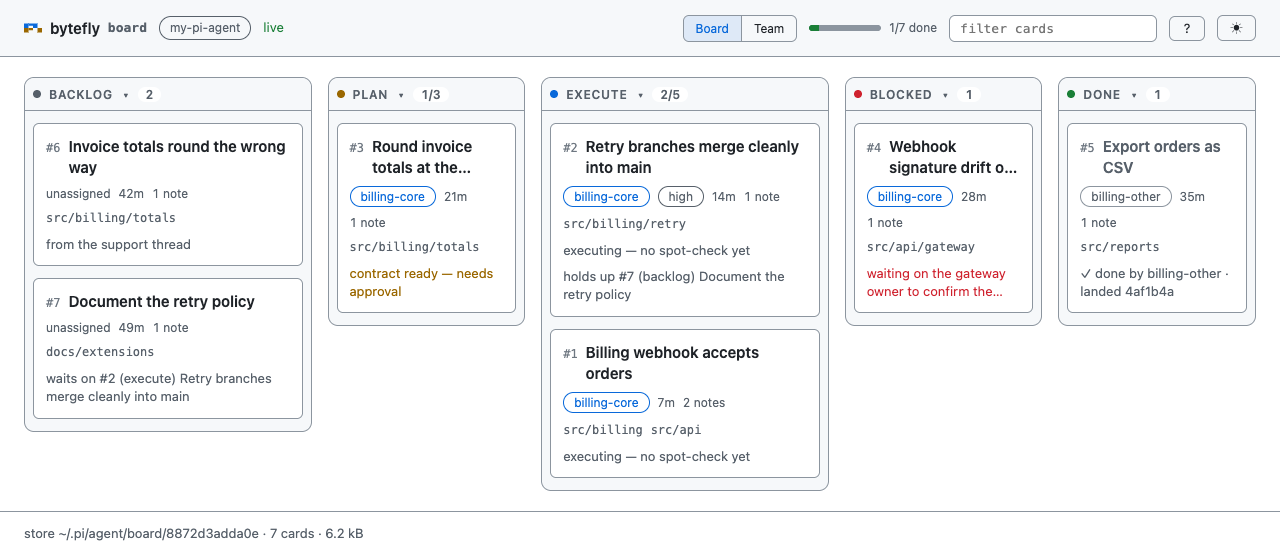
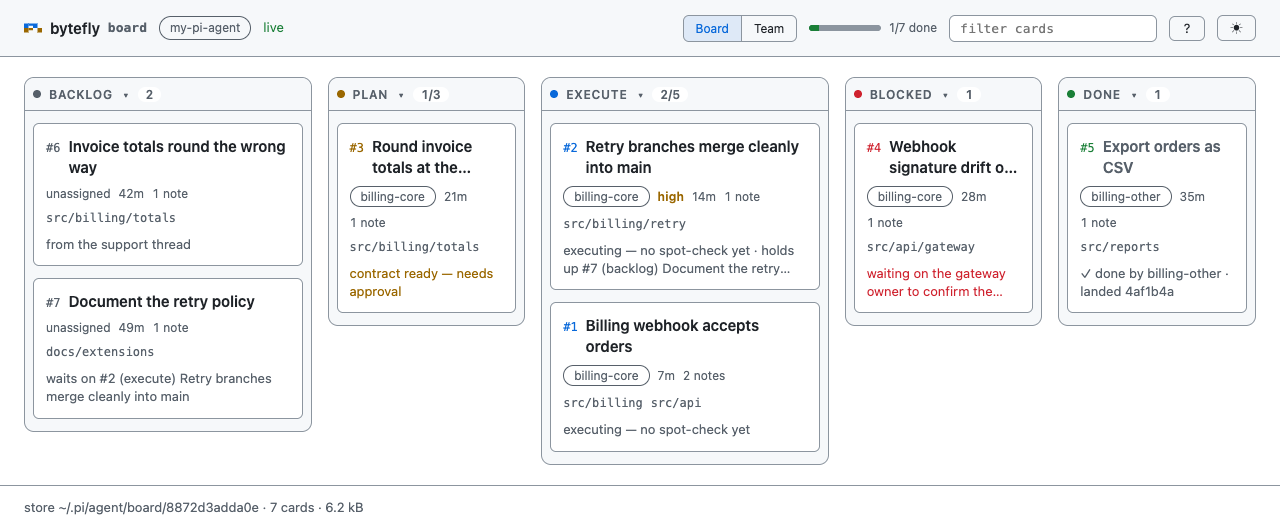
feat(board): a card's links are one row, and its id wears its lane
The face spent a second clamped paragraph on what a card holds up, said
the same edge twice, and lifted a pixel on hover for a page that cannot
move anything.

- the dependents ride the reason line after a middot; cardHolds is gone
- the owner is a neutral pill and a priority is a word, so accent means
  the lane or the current card and never a person's name
- the id is drawn in its lane's role, generated from LANE_RULES beside
  the dot rule, so the card states its state on itself
- no hover translate, and the done-lane accent-chip rule it left dead
- a clamped title carries its whole text on a hover, measured in
  markCards and skipped for anything off screen

Changed region(s): [[0.0, 0.0, 1.0, 0.966], [0.0312, 0.5132, 0.25, 0.8151]]

diff --git a/extensions/board/view/card.ts b/extensions/board/view/card.ts
@@ -7,8 +7,9 @@
  * wording, and the reason rule spliced in from `lib/board/reason.ts` — so no rule about a
  * card is stated twice.
  *
- * Two of the face's facts are longer than it can draw: the hints past its third path, the
- * reason sentence, and the cards it is holding up. Each is on a hover title for the
+ * Three of the face's facts are longer than it can draw: the title in its two-line clamp,
+ * the hints past its third path, and the reason sentence — which carries what the card
+ * holds up after a middot, so one edge is one row. Each is on a hover title for the
  * pointer, and each is named by the title button's `aria-describedby` for the keyboard,
  * because `j`/`k` walks cards by focusing that button and never hovers anything.
  *
@@ -43,6 +44,15 @@ export const BOARD_CARD_JS = String.raw`(function () {
     danger: N.cardReasonDanger,
     success: N.cardReasonSuccess,
   };
+
+  /**
+   * The class each priority wears.
+   *
+   * Both levels are named here rather than one class with a modifier decided at the call
+   * site, because this table is what the class contract compares with the stylesheet: a
+   * level with no rule, or a rule with no level, fails there instead of in a screenshot.
+   */
+  var PRIORITY_CLASS = { high: N.cardPriorityHigh, low: N.cardPriorityLow };
 
   /** "3h", "just now" — the age a stamp is drawn with, read against the reader's clock. */
   function sentence(wording, age) {
@@ -142,10 +152,15 @@ export const BOARD_CARD_JS = String.raw`(function () {
     var described = [];
 
     var meta = el("p", N.cardMeta);
-    meta.appendChild(card.owner ? chip(card.owner.label, "accent") : el("span", "", "unassigned"));
-    // The order inside a lane is the priority, so an urgent card says so: an order
-    // nobody can see reads as an accident. The lane's colour stays the card's own.
-    if (card.priority !== "normal") meta.appendChild(chip(card.priority, "outline"));
+    // Who holds it is a name, not an action: the pill is neutral, so the accent colour on a card
+    // means the lane it is in or the card the reader is on, and never a person.
+    meta.appendChild(card.owner ? chip(card.owner.label, "outline") : el("span", "", "unassigned"));
+    // The order inside a lane is the priority, so an urgent card says so: an order nobody
+    // can see reads as an accident. A word beside the name rather than a second pill, so an
+    // owner and an urgency are two shapes.
+    if (card.priority !== "normal") {
+      meta.appendChild(el("span", N.cardPriority + " " + PRIORITY_CLASS[card.priority], card.priority));
+    }
     // The stamp, so the clock can keep the age honest between frames: a board can be
     // quiet for ten minutes while the page still says "live".
     meta.appendChild(stamp(card.updatedAt, "updated {age}"));
@@ -171,26 +186,22 @@ export const BOARD_CARD_JS = String.raw`(function () {
       if (card.paths.length > PATH_CHIPS) described.push("card-paths-" + card.id);
     }
 
+    // One row for the card's links: why it is not moving, and what leaving it undone holds
+    // up. The other side of a link used to be a second clamped paragraph, so a card three
+    // others waited on spent two rows saying one fact from each end.
     var reason = reasonOf(card);
-    if (reason) {
+    var holds = card.dependents === undefined ? undefined : "holds up " + card.dependents;
+    var why = reason === undefined ? holds : holds === undefined ? reason.text : reason.text + " \u00b7 " + holds;
+    if (why !== undefined) {
       // The tone is a lookup, not a suffix: a name assembled from a prefix is a name no
-      // test can compare with the stylesheet.
-      var line = el("p", N.cardReason + " " + TONE_CLASS[reasonTone(reason.kind)], reason.text);
+      // test can compare with the stylesheet. A card that only holds others up is drawn in
+      // the tone a waiting card wears, because it is the same edge read the other way.
+      var line = el("p", N.cardReason + " " + TONE_CLASS[reasonTone(reason === undefined ? "waiting" : reason.kind)], why);
       line.id = "card-reason-" + card.id;
       // It clamps on the card, so the full sentence is the tooltip.
-      line.title = reason.text;
+      line.title = why;
       item.appendChild(line);
       described.push(line.id);
-    }
-
-    // The other side of a link, on the face: what leaving this card undone holds up. It was
-    // dialog-only, so a card three others were waiting on looked like any other card.
-    if (card.dependents !== undefined) {
-      var holds = el("p", N.cardHolds, "holds up " + card.dependents);
-      holds.id = "card-holds-" + card.id;
-      holds.title = "holds up " + card.dependents;
-      item.appendChild(holds);
-      described.push(holds.id);
     }
 
     // The reason and the hints are drawn below the title, and a keyboard reader never
@@ -211,7 +222,24 @@ export const BOARD_CARD_JS = String.raw`(function () {
   }
 
   /**
-   * Paint the card the reader is on and the cards they have already read.
+   * Give a clamped title the hover the rest of the face has.
+   *
+   * The title is the one field with nowhere else to be read: the reason, the hints and the
+   * plus-N chip each carry their whole sentence on a hover and describe the title button with
+   * it, and a two-line clamp with no title left a long name readable only by opening the
+   * card. A card in a folded lane or on the other tab measures as nothing, so it keeps
+   * what it had and the next pass tries again once a reader can see it.
+   */
+  function fitTitle(card) {
+    var node = card.querySelector(".board-card__title");
+    if (!node || !node.getClientRects || node.getClientRects().length === 0) return;
+    if (node.scrollHeight > node.clientHeight + 1) node.title = node.textContent;
+    else node.removeAttribute("title");
+  }
+
+  /**
+   * Paint the card the reader is on, the cards they have already read, and the hover a
+   * clamped title needs.
    *
    * j/k walks the drawn cards and wraps, so walking a lane and coming back looked
    * exactly like arriving for the first time. The two ids are the client's own — never
@@ -224,6 +252,7 @@ export const BOARD_CARD_JS = String.raw`(function () {
       var id = nodes[i].getAttribute("data-card");
       marked(nodes[i], "data-current", board.current !== undefined && String(board.current) === id);
       marked(nodes[i], "data-visited", board.visited !== undefined && board.visited[id] === true);
+      fitTitle(nodes[i]);
     }
   };
 })();`;

diff --git a/extensions/board/view/styles.ts b/extensions/board/view/styles.ts
@@ -28,6 +28,7 @@ const LANE_ROLE_CSS = LANES.flatMap((lane) => {
 	return [
 		`.board-lane[data-lane="${lane}"] .board-lane__dot{background:var(--${role})}`,
 		`.board-dialog__state[data-lane="${lane}"]::before{background:var(--${role})}`,
+		`.board-card[data-lane="${lane}"] .board-card__id{color:var(--${role})}`,
 	];
 }).join("\n");
 
@@ -124,10 +125,12 @@ ${DECISION_WHY_CSS}
 .board-lane__list{display:flex;flex-direction:column;gap:var(--space-3);margin:0;padding:0;list-style:none}
 .board-lane__empty{margin:0;font:var(--fs-sm) var(--font-ui);color:var(--muted)}
 
-/* A card: the title, then the facts a reader needs to act on it. Its lane says
-   which state it is in, so the card itself carries no second colour bar. */
-.board-card{display:flex;flex-direction:column;gap:var(--space-2);padding:var(--space-3);border:1px solid var(--border);border-radius:var(--radius-md);background:var(--canvas);cursor:pointer;transition:border-color var(--motion-fast) var(--motion-ease),transform var(--motion-fast) var(--motion-ease)}
-.board-card:hover{border-color:var(--border-strong);transform:translateY(-1px)}
+/* A card: the title, then the facts a reader needs to act on it. Its lane says which
+   state it is in, and the id wears that lane's colour, so the card needs no second bar.
+   The hover lifts nothing: the page cannot move a card, and a card that rises on the
+   pointer reads as one you can pick up. */
+.board-card{display:flex;flex-direction:column;gap:var(--space-2);padding:var(--space-3);border:1px solid var(--border);border-radius:var(--radius-md);background:var(--canvas);cursor:pointer;transition:border-color var(--motion-fast) var(--motion-ease)}
+.board-card:hover{border-color:var(--border-strong)}
 .board-card[hidden]{display:none}
 .board-card__head{display:flex;align-items:baseline;gap:var(--space-2);margin:0;min-width:0}
 .board-card__id{font:var(--fs-xs) var(--font-mono);color:var(--dim)}
@@ -136,11 +139,15 @@ ${DECISION_WHY_CSS}
 /* Finished work recedes: it is history, and the live lanes should not compete with it. */
 .board-card[data-lane="done"] .board-card__title{color:var(--muted)}
 .board-card[data-lane="done"] .board-card__title:hover{color:var(--accent)}
-.board-card[data-lane="done"] .bf-chip--accent{color:var(--muted);border-color:var(--border)}
 .board-card__meta{display:flex;flex-wrap:wrap;align-items:center;gap:var(--space-2);margin:0;font:var(--fs-xs) var(--font-ui);color:var(--muted)}
 /* How much history the card carries and how recent it is: a count and a stamp, in the
    meta line's own voice, so a card with ten notes cannot look like one with none. */
 .board-card__notes{display:inline-flex;align-items:baseline;gap:var(--space-1);font-variant-numeric:tabular-nums}
+/* An order is a word beside the name rather than a second pill, so who holds a card and
+   how urgent it is are two shapes a reader tells apart at a glance. */
+.board-card__priority{font:var(--fw-semibold) var(--fs-xs) var(--font-ui);letter-spacing:.02em}
+.board-card__priority--high{color:var(--warn)}
+.board-card__priority--low{color:var(--dim)}
 .board-card__paths{display:flex;flex-wrap:wrap;gap:var(--space-1) var(--space-2);margin:0;padding:0;list-style:none}
 /* A chip is one line and nowrap by design, so an owner label or a path longer than the card
    would spill past its border and across the lane beside it: clipped to the card instead,
@@ -150,6 +157,9 @@ ${DECISION_WHY_CSS}
 .board-card .bf-chip{display:block;max-width:100%;overflow:hidden;text-overflow:ellipsis}
 /* A path is something a reader types, so it wears the mono face the dialog's ladder uses. */
 .board-card__paths .bf-chip{font-family:var(--font-mono)}
+/* The other half of a link — what leaving this card undone holds up — is drawn in this
+   same paragraph after a middot: it is the same edge read from the other end, so it takes
+   the reason's tone and no second row of its own. */
 .board-card__reason{margin:0;font:var(--fs-sm)/var(--lh-snug) var(--font-ui);color:var(--muted);display:-webkit-box;-webkit-line-clamp:2;-webkit-box-orient:vertical;overflow:hidden;overflow-wrap:anywhere}
 /* The tone rules come *after* the base rule, and that is load-bearing: a tone class is one
    class and so is the base, so the later of two equal selectors wins. Generated before it,
@@ -157,10 +167,6 @@ ${DECISION_WHY_CSS}
    exists to stop. The pages suite pins the order, not just the rule's presence. */
 ${REASON_TONE_CSS}
 
-/* The other side of a link: what leaving this card undone holds up. It is a cost and not a
-   verdict, so it stays in the card's own voice: warn already means "a reader has to decide",
-   and a card can hold others up while nothing about it needs deciding. */
-.board-card__holds{margin:0;font:var(--fs-sm)/var(--lh-snug) var(--font-ui);color:var(--muted);display:-webkit-box;-webkit-line-clamp:2;-webkit-box-orient:vertical;overflow:hidden;overflow-wrap:anywhere}
 /* Where the reader has been: j/k walks the drawn cards and wraps, so a lane walked and
    come back to looked exactly like a lane arriving for the first time. A read card keeps
    a quiet edge and the one the reader is on wears the accent one — after the hover rule,
@@ -314,7 +320,7 @@ ${REASON_TONE_CSS}
 }
 @media (prefers-reduced-motion: reduce){
   .board-card,.board-team__decision{transition:none}
-  .board-card:hover,.board-team__decision:hover{transform:none}
+  .board-team__decision:hover{transform:none}
 }
 @media print{
   .board-lanes,.board-team__grid{grid-template-columns:minmax(0,1fr)}

diff --git a/extensions/board/view/pages.test.ts b/extensions/board/view/pages.test.ts
@@ -237,10 +237,10 @@ describe("the document", () => {
 		expect(BOARD_CSS).toContain(".board-picker{flex-wrap:wrap;border:0;background:none;gap:var(--space-1)}");
 	});
 
-	test("wears its priority as a filed chip and its paths as code", () => {
-		// A priority is a field a card carries, so it wears the kit's quiet pill rather than the
-		// same muted text as its age; a path hint is something a reader types, so it is mono.
-		expect(BOARD_CLIENT_JS).toContain('chip(card.priority, "outline")');
+	test("wears its priority as a word and its paths as code", () => {
+		expect(BOARD_CLIENT_JS).toContain("PRIORITY_CLASS[card.priority]");
+		expect(BOARD_CSS).toContain(".board-card__priority--high{color:var(--warn)}");
+		// A path hint is something a reader types, so it is mono.
 		expect(BOARD_CSS).toContain(".board-card__paths .bf-chip{font-family:var(--font-mono)}");
 		// Two mono paths four pixels apart read as one path that wrapped, so the list keeps the
 		// dialog's taller column gap: the separation is the only thing saying where one ends.
@@ -260,6 +260,8 @@ describe("the document", () => {
 		expect(BOARD_CLIENT_JS).toContain("hint.title = shown[i]");
 		// A title with no spaces in it wraps to the two-line clamp instead of being cut mid-word.
 		expect(ownRules()).toMatch(/\.board-card__title\{[^}]*overflow-wrap:anywhere/);
+		expect(BOARD_CLIENT_JS).toContain("node.scrollHeight > node.clientHeight + 1");
+		expect(BOARD_CLIENT_JS).toContain('node.removeAttribute("title")');
 	});
 
 	test("draws every colour through a kit token", () => {
@@ -329,7 +331,7 @@ describe("the client bundle", () => {
 		expect(BOARD_CLIENT_JS).toContain("board.matches(card, query)");
 		expect(BOARD_CLIENT_JS).toContain("matchesLabel(mate.label)");
 		expect(BOARD_CLIENT_JS).toContain("laneWithWork(view)");
-		expect(BOARD_CLIENT_JS).toContain("line.title = reason.text");
+		expect(BOARD_CLIENT_JS).toContain("line.title = why");
 		expect(BOARD_CLIENT_JS).toContain("why.title = entry.why");
 	});
 
@@ -367,10 +369,8 @@ describe("the client bundle", () => {
 		expect(BOARD_CSS).toContain(
 			'.board-card[data-current="true"]{border-color:var(--accent);box-shadow:inset 3px 0 0 var(--accent)}',
 		);
-		// The line under the reason clamps like the reason, which is why it is described too,
-		// and it keeps the card's own voice: warn means a reader has to decide something.
-		expect(ownRules()).toMatch(/\.board-card__holds\{[^}]*-webkit-line-clamp:2/);
-		expect(ownRules()).toMatch(/\.board-card__holds\{[^}]*color:var\(--muted\)/);
+		// The other half of a link rides the reason line after a middot, in the reason's tone.
+		expect(BOARD_CLIENT_JS).toContain('reason.text + " \\u00b7 " + holds');
 	});
 
 	test("draws the dashboard: a queue, a roster, and a Done strip that opens cards", () => {

diff --git a/extensions/board/view/behaviour.test.ts b/extensions/board/view/behaviour.test.ts
@@ -440,10 +440,9 @@ describe.skipIf(CHROME === undefined)("the served page", () => {
 		);
 		try {
 			const page = await openPage();
-			// The face says it too, and names the card rather than its id: a lead reading a lane
-			// decides on that, and the dialog was the only place it lived.
-			expect(await page.textContent('#lane-backlog .board-card[data-card="1"] .board-card__holds')).toBe(
-				"holds up #2 (backlog) Invoice totals round the wrong way",
+			// The face says it too, on the reason's own line, naming the card rather than its id.
+			expect(await page.textContent('#lane-backlog .board-card[data-card="1"] .board-card__reason')).toContain(
+				"· holds up #2 (backlog) Invoice totals round the wrong way",
 			);
 			expect(await page.textContent('#lane-backlog .board-card[data-card="2"] .board-card__reason')).toBe(
 				"waits on #1 (backlog) Export orders as CSV",
@@ -638,10 +637,11 @@ describe.skipIf(CHROME === undefined)("the served page", () => {
 
 	test("wears its priority and its paths as fields, not as prose", async () => {
 		const page = await openPage();
-		// The executing card is the seeded one with a priority, so its meta line is the case.
-		expect(
-			await page.$eval("#lane-execute .board-card .board-card__meta .bf-chip--outline", (n) => n.textContent),
-		).toBe("high");
+		// The executing card is the seeded one with a priority, so its meta line is the case:
+		// who holds it is a neutral pill, and how urgent it is is a word beside that pill.
+		const meta = "#lane-execute .board-card .board-card__meta";
+		expect(await page.$eval(`${meta} .bf-chip--outline`, (n) => n.textContent)).toBe("billing-core");
+		expect(await page.$eval(`${meta} .board-card__priority`, (n) => n.textContent)).toBe("high");
 		// A path is a value a reader types, so it wears the dialog's mono face on the card too.
 		const mono = await page.$eval("#lane-execute .board-card .board-card__paths .bf-chip", (n) =>
 			(globalThis as unknown as { getComputedStyle(node: ElementLike): { fontFamily: string } })

diff --git a/extensions/board/view/repaint.test.ts b/extensions/board/view/repaint.test.ts
@@ -64,8 +64,9 @@ describe.skipIf(CHROME === undefined)("a frame", () => {
 
 	test("repaints a card that gains a card waiting on it", async () => {
 		const page = await board.open();
-		const holds = () => page.textContent('#lane-execute .board-card[data-card="2"] .board-card__holds');
-		await expect(holds()).resolves.toBe("holds up #1 (backlog) Export orders as CSV");
+		// The other half of a link is the reason line's, after a middot: one row for one edge.
+		const holds = () => page.textContent('#lane-execute .board-card[data-card="2"] .board-card__reason');
+		await expect(holds()).resolves.toContain("holds up #1 (backlog) Export orders as CSV");
 		// A third card is linked to the executing one. That is a write to a card in another
 		// lane, and the blocker's own record keeps the revision it had.
 		await board.store.mutate(
@@ -77,7 +78,7 @@ describe.skipIf(CHROME === undefined)("a frame", () => {
 		// The frame has landed once the edited card's own lane has drawn the reason its link
 		// gave it; what is left to prove is that the lane in front of the reader heard too.
 		await page.locator('#lane-backlog .board-card[data-card="3"] .board-card__reason').waitFor({ timeout: PAINT_MS });
-		await expect(holds()).resolves.toBe(
+		await expect(holds()).resolves.toContain(
 			"holds up #1 (backlog) Export orders as CSV, #3 (backlog) Invoice totals round the wrong way",
 		);
 		await page.close();

diff --git a/extensions/board/view/names.ts b/extensions/board/view/names.ts
@@ -51,7 +51,10 @@ export const BOARD_CLASS = {
 	cardReasonAccent: "board-card__reason--accent",
 	cardReasonDanger: "board-card__reason--danger",
 	cardReasonSuccess: "board-card__reason--success",
-	cardHolds: "board-card__holds",
+	// A priority is a word and a level, not a second pill: the level is what it is coloured by.
+	cardPriority: "board-card__priority",
+	cardPriorityHigh: "board-card__priority--high",
+	cardPriorityLow: "board-card__priority--low",
 
 	// The card dialog: the record of one card, as a ladder of facts and its notes.
 	dialogPanel: "board-dialog__panel",

diff --git a/docs/extensions/board.md b/docs/extensions/board.md
@@ -59,7 +59,7 @@ documents its surface with the rest; the gate is the variable, in `lib/env.ts` b
 `PI_DISABLED_EXTENSIONS`, which still wins when it names `board`. `doctor` reports the
 row as an opt-in extension and names the switch.
 
-<img src="../../assets/screens/board.png" alt="The board page: a toolbar with the repository's name and a live badge, Board and Team tabs, done-of-total progress, a filter, the keys button and a theme toggle; five lane trays, each with a dot, a count and a fold control; and cards carrying an owner chip, a note count and its age, path hints, a line naming what the card waits for, a line naming the cards it holds up, and a reason line, with no button on any of them" width="100%">
+<img src="../../assets/screens/board.png" alt="The board page: a toolbar with the repository's name and a live badge, Board and Team tabs, done-of-total progress, a filter, the keys button and a theme toggle; five lane trays, each with a dot, a count and a fold control; and cards carrying an owner chip, a note count and its age, path hints, and a reason line naming what the card waits for and what it holds up, with no button on any of them" width="100%">
 
 *`/board`: the five lanes, with the round one tab away and every card opened by its title.*
 
@@ -298,7 +298,7 @@ a board that is empty.
 |---|---|
 | Toolbar | the mark, the repository's name as a quiet chip with the root's whole path on hover, a live badge (`connecting…`, `live` or `live · 3m`, `reconnecting…`), then one group: the Board\|Team switch, done-of-total progress (from three cards up, and only above 1180px), a filter, the keys button, and the theme toggle |
 | Lanes | trays, not a bare list: one column per lane, sized by the work it holds — a lane with two cards is wider than one with a single card, and one holding no cards, or folded, narrows to a rail of dot, word, and count — except `done`, which draws as if it held three cards however much history it has, because the lanes still being worked are the ones a reader is working in. One row of five above 1180px, two per row at 1180px or narrower, one lane plus the lane switch at 860px or narrower — where it opens on the first lane that holds a card, and the switch is a group of pressed buttons rather than a second set of tabs, because there is no tabpanel behind it. A filter that matches nothing replaces the lanes with one sentence — `No card matches “x”` — and a `Clear filter` button, so five trays of `no match` never read as a board with no work. Each head sticks to the pane's own top edge while the pane scrolls, carries its count as a pill — `2/3` on `Plan` and `1/5` on `Execute`, the limit and the count in one fact — names itself from the same numbers for a screen reader (`Plan, 1 of 3`, `Backlog, 2 cards`, `Backlog, 1 of 2` under a filter), and folds its cards away: `Done` starts folded at six cards or more, since finished work is history, and a reader's toggle decides from then on |
-| Cards | the id and a two-line title (the page's loudest text, and the focusable half of its door: the whole card opens it), an owner chip and an age whose hover says which fact it is (`updated 2d ago`), a quiet outlined chip for a priority that is not `normal`, `2 notes` when it carries any history — the count, with the last note's age beside it only when that age reads differently from the card's own updated stamp, since a note is itself a write and the same moment printed twice is two bare numbers nobody can tell apart, and a card with ten notes and one with none used to draw the same face — path hints in the mono face, and one reason line in one voice, from `lib/board/reason.ts`: what a card waits for, named by title as well as id (`waits on #31 (execute) The page's roster key…`), a blocked card's recorded reason or else its last note (or `blocked, with nothing recorded`), `no contract yet — missing …`, `contract ready — needs approval`, `contract approved by <who>`, `executing — no spot-check yet`, `spot-checked by <who>`, `offered 2h ago — nobody took it`, and `✓ done by <owner>` with the commit it landed as — up to two lines at the Team tab's size, with the whole sentence as its tooltip, because the reason is the reason to act on the card. A card holding others up says so below it — `holds up #79 (backlog) The page's roster key…` — the one fact its own row cannot carry. A title and a path hint elide **inside** the card: a chip is one line by design, so a path or a label longer than the card is clipped rather than crossing into the lane beside it, and its whole value is the hover title. The hints past the third are counted by a `+N` chip whose hover lists them one per line, and which are in the list again as text a screen reader reads. What a card cannot show — the reason, the holds-up line, the hints behind a `+N` chip — is named by the title button's `aria-describedby`, so the keyboard that reaches the card by `j`/`k` reads the same sentences a pointer gets on hover. A card draws **no button**: claiming, moving, editing, and annotating are the tools' work, and a face that offered them would be offering a refusal. A hovered card lifts a pixel; a finished one recedes, title and owner chip muted; the card the reader is on wears an accent edge and the ones they have opened keep a quiet one, so walking a lane and coming back does not look like arriving for the first time |
+| Cards | the id in the lane's own colour and a two-line title (the page's loudest text, and the focusable half of its door: the whole card opens it), an owner pill and an age whose hover says which fact it is (`updated 2d ago`), a priority word beside the owner when it is not `normal`, so a person and an urgency are two shapes rather than two pills, `2 notes` when it carries any history — the count, with the last note's age beside it only when that age reads differently from the card's own updated stamp, since a note is itself a write and the same moment printed twice is two bare numbers nobody can tell apart, and a card with ten notes and one with none used to draw the same face — path hints in the mono face, and one reason line in one voice, from `lib/board/reason.ts`: what a card waits for, named by title as well as id (`waits on #31 (execute) The page's roster key…`), a blocked card's recorded reason or else its last note (or `blocked, with nothing recorded`), `no contract yet — missing …`, `contract ready — needs approval`, `contract approved by <who>`, `executing — no spot-check yet`, `spot-checked by <who>`, `offered 2h ago — nobody took it`, and `✓ done by <owner>` with the commit it landed as — up to two lines at the Team tab's size, with the whole sentence as its tooltip, because the reason is the reason to act on the card. A card holding others up says so on that same line, after a middot — `executing — no spot-check yet · holds up #79 (backlog) The page's roster key…` — because it is the same edge read from the other end, and a second paragraph spent a row on it. A title and a path hint elide **inside** the card: a chip is one line by design, so a path or a label longer than the card is clipped rather than crossing into the lane beside it, and its whole value is the hover title. The hints past the third are counted by a `+N` chip whose hover lists them one per line, and which are in the list again as text a screen reader reads. What a card cannot show — the reason, the holds-up line, the hints behind a `+N` chip — is named by the title button's `aria-describedby`, so the keyboard that reaches the card by `j`/`k` reads the same sentences a pointer gets on hover. A card draws **no button**: claiming, moving, editing, and annotating are the tools' work, and a face that offered them would be offering a refusal. A hovered card only strengthens its edge, because the page cannot move a card and a card that rises reads as one you can pick up; a finished one recedes, title and owner chip muted; the card the reader is on wears an accent edge and the ones they have opened keep a quiet one, so walking a lane and coming back does not look like arriving for the first time |
 | Team | two panels and a strip. **Needs a decision** is one row per card — a card that is both idle and unreviewed arrives once, keeping its strongest reason — laid out as two lines: the id, title and owner chip on the first, the reason on the second — a blocked card's recorded `blockedBy`, else its last note, and `offered 2h ago — nobody took it` for a card whose offer went unanswered — with the whole sentence as its tooltip, and its kind as a left edge, in the tone `lib/board/tone.ts` gives that kind (`--danger` blocked, and `gone` — an owner whose process is not running, ranked above a card merely sitting still; `--warn` approval, review, and idle; `--dim` unplanned or waiting, the same `--dim` dashed for nobody's). A card in `execute` is a row from the minute it enters the lane — the whole lane, work in flight included, because the board cannot tell finished work from work in progress and the spot-check `done` requires is owed either way: the queue is read off the cards, not off a timer. The tone is read from one table, so the row's rank and its colour cannot disagree, and a danger row is the only one whose reason sentence is coloured with its edge. The row is a reason to pick the card up in the terminal, and it draws no button: claiming and reclaiming are the tools' work. An unassigned card that waits on unfinished work is a row of its own kind, ranked just under a blocker. Above 1180px the queue stops at one screen's height and scrolls inside its panel, so the roster and the Done strip stay on the same page as its top. **Teammates** is one row per person — a state dot, the label, a `you` chip, a `not listening` chip on a live peer whose inbox watch is off, a mail badge, then `live · 3 held · 1 done · oldest 21m` (a quiet session reads `quiet for 2h`, because a word without an age is no reason to reclaim) — sorted you, live, quiet, no record, and an owner whose label nothing answers to keeps its row. Done is one quiet strip whose ids open their cards. Both panels honour the toolbar's filter, and their headings read `shown/total` the way a lane head does. Below 1180px the queue comes first and the roster follows |
 | Card dialog | the record of one card, in two named sections. The head carries the id, the title, and the lane as a dot and a word. **The card** is a ladder — one fact per row, labels sized to the longest of them so the values line up: owner, priority when it is not `normal`, updated, in lane, last edited, landed, waits on, waited on by, plan, goal, acceptance, scope out, approved, reviewed, paths. `in lane` is the lane the card is in and how long it has held it, read from the card's transitions rather than from `updatedAt`, which a note or an edit moves; a card whose history does not say omits the row. The plan and each path are one line that elides, with the whole value on the hover title; what it waits for reads `#2 (execute) <title>`, the lane that makes the id a decision and the card it names, and the contract's three lines are rungs of their own so a reader compares what was promised with what was done. Empty rows take their labels with them. **Notes · N** is the cargo at body size on a 68ch measure, each sentence with its attribution under it and a rule between notes, and a note's prose is inline Markdown read by the kit's one renderer — `code`, **bold**, *italic*, and a link to an `http`, `https`, or `mailto` target become atoms, and any other target stays the text it was, so a note can never become markup — and `M earlier notes dropped` when the store capped them. The body is the only scroll, so the head and `Close` stay put. Nothing in it writes, every field is a set as `textContent` — a note's prose is the page's one exception, handed to the kit's inline renderer, which appends text and four atoms and never parses markup — and the card underneath every title is the way in. `j`/`k` walk to the next or previous card without closing it, and an `sr-only` live region announces `card 2 of 3: <title>` — a title that changes inside an open modal is not announced on its own |
 Colour is a role, one per lane, read from `LANE_RULES`: `--muted` for `backlog`,

diff --git a/README.md b/README.md
@@ -195,7 +195,7 @@ package serves: the board, the browser-based plan review, and the file browser.
 
 ![The terminal plan review: a Plan Review title rule, a notice that one section changed since the last review, the plan body with its headings and ◼/◻ task checkboxes, a scroll gauge naming the current section and the visible line range, and the Esc/a/r/w, scroll, and section-jump hints](assets/screens/plan.png)
 
-![The board page: a toolbar with the repository's name and a live badge, Board and Team tabs, done-of-total progress, a filter, the keys button and a theme toggle; five lane trays, each with a dot, a count and a fold control; and cards carrying an owner chip, a note count and its age, path hints, a line naming what the card waits for, a line naming the cards it holds up, and a reason line, with no button on any of them](assets/screens/board.png)
+![The board page: a toolbar with the repository's name and a live badge, Board and Team tabs, done-of-total progress, a filter, the keys button and a theme toggle; five lane trays, each with a dot, a count and a fold control; and cards carrying an owner chip, a note count and its age, path hints, and a reason line naming what the card waits for and what it holds up, with no button on any of them](assets/screens/board.png)
 
 ![The browser-based plan review: a sticky header with the plan title, a status chip, and the Approve & run, Save feedback, and Back to Pi actions, a Share action, a side panel with step progress and a section outline, and the plan as one measured column with a comment rail holding the owner's own comment and a teammate's @priya comment](assets/screens/plan-review.png)
 

diff --git a/CHANGELOG.md b/CHANGELOG.md
@@ -17,6 +17,15 @@ to [Semantic Versioning](https://semver.org/spec/v2.0.0.html).
 
 ### Changed
 
+- `board`: a card's face spends one row on its links. What a card holds up rides the reason
+  line after a middot instead of a second clamped paragraph, so the two ends of one edge read
+  as one edge and a busy card gives back the row; and the id now wears its lane's colour, so a
+  card states its state on itself rather than only in the tray beside it.
+- `board`: a card draws who holds it as a neutral pill and how urgent it is as a word, so the
+  accent colour on a face means the lane or the card the reader is on and never a person's
+  name. A hovered card keeps its border change and loses the pixel of lift — the page cannot
+  move a card — and a title longer than its two-line clamp carries the whole of itself on a
+  hover, the way the reason line and the path hints already did.
 - `board`: a sign now tells the other side. `approve` and `review` record the card and then send
   its owner one event naming the signer and the lane the sign opened — the same channel a handoff
   uses, which waits in the inbox and starts no turn — so the session that can make the next move
